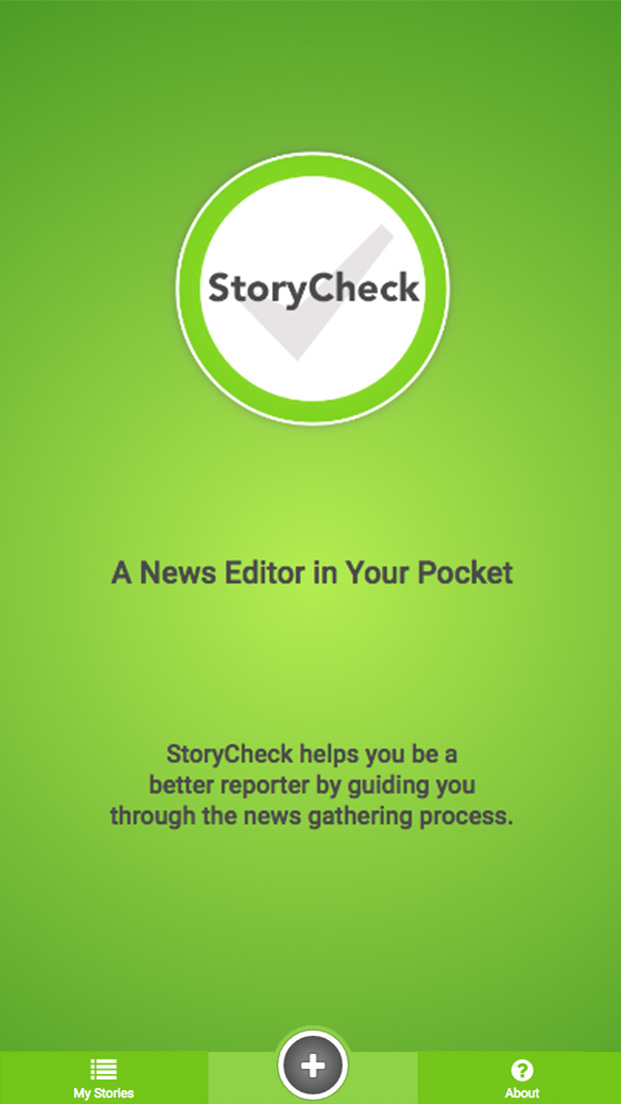
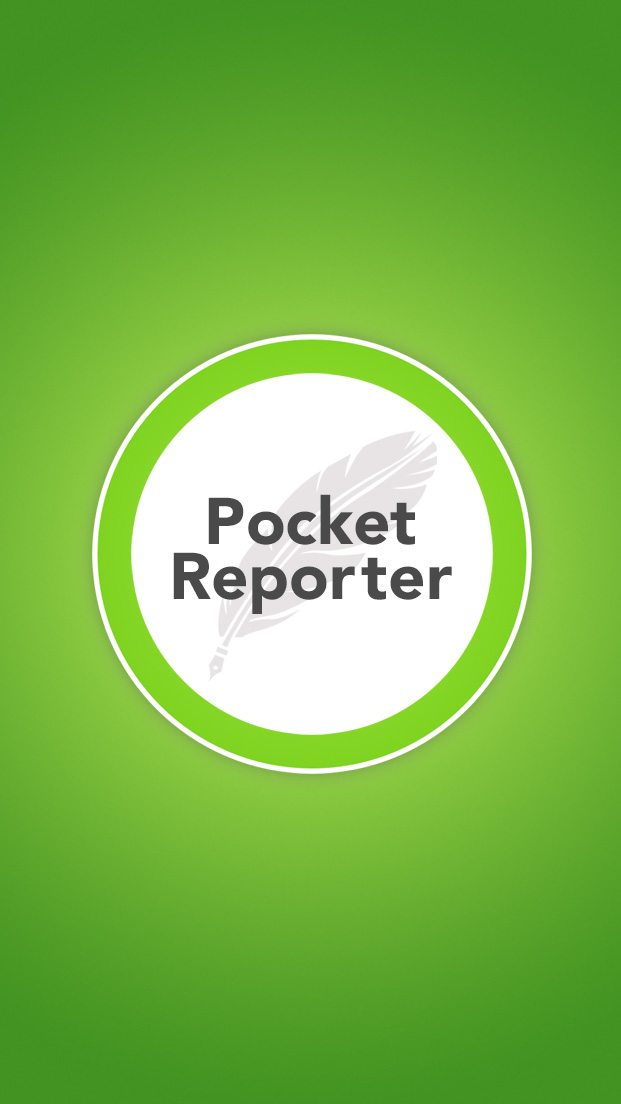
update branding and copy to Pocket Reporter

diff --git a/landing/index.html b/landing/index.html
@@ -9,7 +9,7 @@
     <meta name="description" content="Storycheck: A News Editor for">
     <meta name="author" content="Code for South Africa">
 
-    <title>StoryCheck</title>
+    <title>Pocket Reporter</title>
 
     <!-- Bootstrap Core CSS -->
     <link href="vendor/bootstrap/css/bootstrap.min.css" rel="stylesheet">
@@ -64,7 +64,7 @@
                         <div class="header-content-inner">
                             <h1>Your personal news editor in your pocket</h1>
                             <p><span class="tagline">Fill in what you know, find out what you don't</span></p>
-                            <p>StoryCheck helps you be a better reporter by guiding you through the news gathering process</p>
+                            <p>Pocket Reporter helps you be a better reporter by guiding you through the news gathering process</p>
                             <div class="badges">
                                 <a class="badge-link" href="#"><img class="gplay-logo" src="img/google-play-badge.svg" alt=""></a>
                                 <!--<a class="badge-link" href="#"><img class="istore-logo" src="img/app-store-badge.svg" alt=""></a>-->
